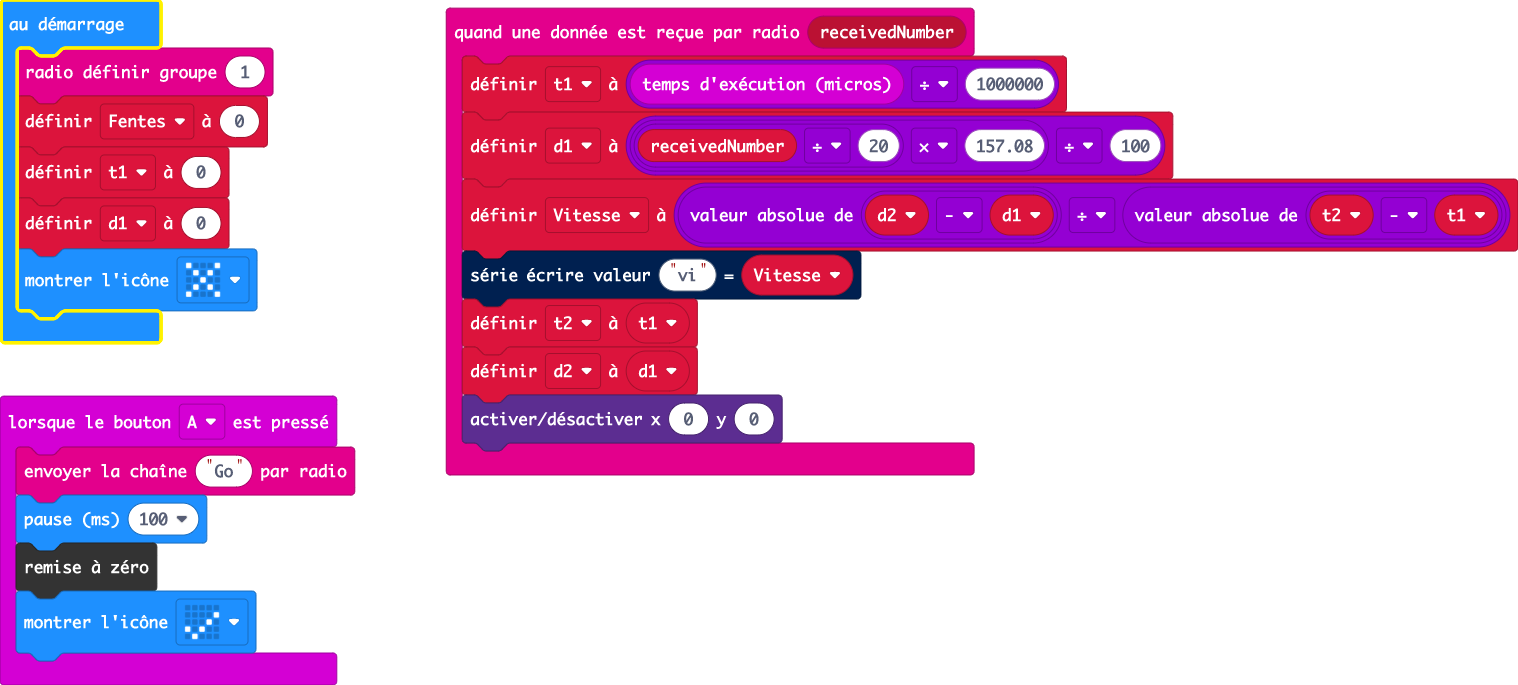
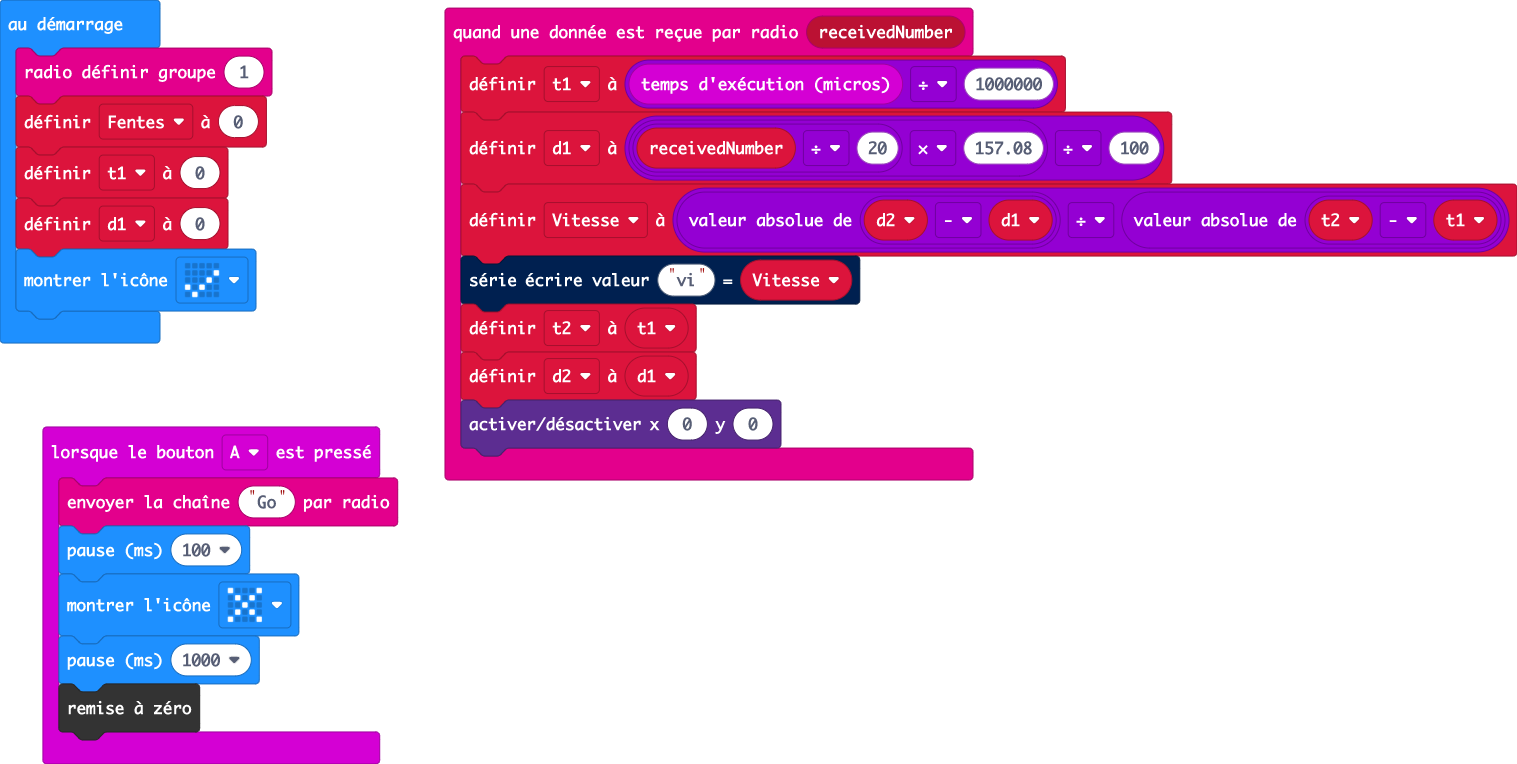
Mise à jour main.blocks, main.ts

Changed region(s): [[0.0, 0.0, 1.0, 1.0], [0.0, 0.0, 0.1859, 0.5212]]

diff --git a/main.ts b/main.ts
@@ -10,8 +10,9 @@ radio.onReceivedNumber(function (receivedNumber) {
 input.onButtonPressed(Button.A, function () {
     radio.sendString("Go")
     basic.pause(100)
+    basic.showIcon(IconNames.No)
+    basic.pause(1000)
     control.reset()
-    basic.showIcon(IconNames.Yes)
 })
 let t2 = 0
 let d2 = 0
@@ -22,4 +23,4 @@ radio.setGroup(1)
 let Fentes = 0
 t1 = 0
 d1 = 0
-basic.showIcon(IconNames.No)
+basic.showIcon(IconNames.Yes)
